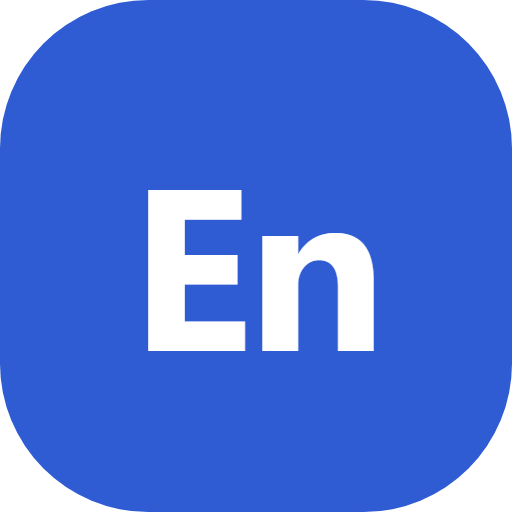
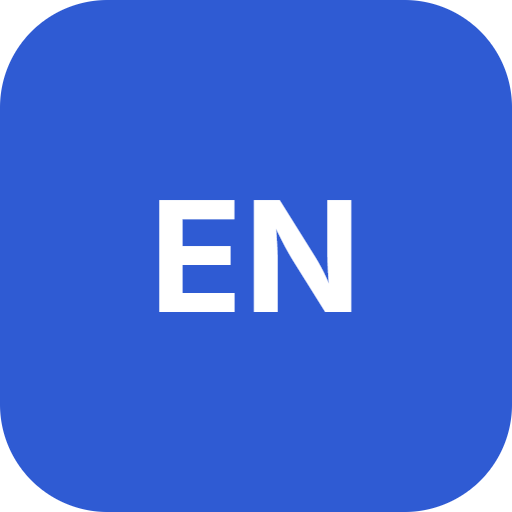
Polish the site's styling for dark mode, tablets and phones
- Fix low contrast in dark mode: white text on light accent and level
  colors (primary buttons, level badges, counters) was ~2.2-2.7:1. Add an
  --on-accent token: white in light mode, dark text in dark mode.
- Darken the tertiary text color in both themes and the A1/A2 level colors
  so small grey text and badges are readable.
- Stop hiding the last lesson tab ("Wymowa") on 961-1599px screens: the
  tab bar now spans the full width, and with a mouse the tabs wrap instead
  of overflowing.
- Keep the same content width and left edge across all lesson tabs, so the
  page no longer shifts when switching between them.
- Put the search field behind a search button on phones and tablets
  (up to 960px) and show only icons in the top bar links. This also fixes
  the top bar overflowing by up to 169px on 641-960px screens.
- Give table columns a minimum width on phones instead of squeezing them
  to one word per line; wide tables scroll horizontally.
- Add icons to the "Kolejność nauki" and search results headings to match
  the other section pages.
- Change the logo mark and app icons from "En" to "EN".
- Smaller fixes: the done check mark stays with the last word of a lesson
  title, full level names in the learning order cards, a thin sidebar
  scrollbar, and en dashes instead of em dashes.

diff --git a/css/style.css b/css/style.css
@@ -5,9 +5,10 @@
   --border: #e3ded3;
   --text: #1f2430;
   --text-2: #5a6070;
-  --text-3: #8a8f9c;
+  --text-3: #6e7381;
   --accent: #2f5bd3;
   --accent-soft: #e6ecfb;
+  --on-accent: #fff; /* tekst na tle accent / poziomu / ok / bad */
   --ok: #1f8a4c;
   --ok-soft: #e3f4ea;
   --bad: #c0392b;
@@ -16,8 +17,8 @@
   --warn-soft: #fdf0de;
   --tip: #1f7a6d;
   --tip-soft: #e0f3ef;
-  --a1: #2e9e5b;
-  --a2: #13889a;
+  --a1: #23854c;
+  --a2: #107e8f;
   --b1: #2f5bd3;
   --b2: #7b4bc9;
   --shadow: 0 1px 2px rgba(20, 24, 40, .05), 0 4px 16px rgba(20, 24, 40, .05);
@@ -30,8 +31,8 @@
 @media (prefers-color-scheme: dark) {
   :root:not([data-theme="light"]) {
     --bg: #14161c; --surface: #1c1f27; --surface-2: #232733; --border: #2f3442;
-    --text: #e8eaf0; --text-2: #a8aebd; --text-3: #737a8c;
-    --accent: #7c9bff; --accent-soft: #232c48;
+    --text: #e8eaf0; --text-2: #a8aebd; --text-3: #868d9f;
+    --accent: #7c9bff; --accent-soft: #232c48; --on-accent: #14161c;
     --ok: #4fc483; --ok-soft: #173326; --bad: #ff7b6b; --bad-soft: #3a1f1d;
     --warn: #f0a54a; --warn-soft: #3a2a16; --tip: #4fc7b5; --tip-soft: #15322e;
     --a1: #4fc483; --a2: #3cc0d2; --b1: #7c9bff; --b2: #b18cf0;
@@ -41,8 +42,8 @@
 }
 :root[data-theme="dark"] {
   --bg: #14161c; --surface: #1c1f27; --surface-2: #232733; --border: #2f3442;
-  --text: #e8eaf0; --text-2: #a8aebd; --text-3: #737a8c;
-  --accent: #7c9bff; --accent-soft: #232c48;
+  --text: #e8eaf0; --text-2: #a8aebd; --text-3: #868d9f;
+  --accent: #7c9bff; --accent-soft: #232c48; --on-accent: #14161c;
   --ok: #4fc483; --ok-soft: #173326; --bad: #ff7b6b; --bad-soft: #3a1f1d;
   --warn: #f0a54a; --warn-soft: #3a2a16; --tip: #4fc7b5; --tip-soft: #15322e;
   --a1: #4fc483; --a2: #3cc0d2; --b1: #7c9bff; --b2: #b18cf0;
@@ -74,7 +75,7 @@ button { font: inherit; color: inherit; cursor: pointer; }
 .logo:hover { text-decoration: none; }
 .logo-mark {
   display: grid; place-items: center; width: 34px; height: 34px; border-radius: 10px;
-  background: var(--accent); color: #fff; font-weight: 700; font-size: 15px;
+  background: var(--accent); color: var(--on-accent); font-weight: 700; font-size: 14px; letter-spacing: .02em;
 }
 .logo-text { font-weight: 500; }
 .search { flex: 1; min-width: 0; max-width: 560px; margin-left: auto; }
@@ -83,6 +84,8 @@ button { font: inherit; color: inherit; cursor: pointer; }
   width: 100%; height: 38px; padding: 0 14px; border-radius: 10px;
   border: 1px solid var(--border); background: var(--surface-2); color: var(--text); font: inherit; font-size: 14px;
 }
+.icon-btn.search-btn, .icon-btn.search-close { display: none; }
+.search-h1 { font-size: 30px; }
 .search input:focus { outline: 2px solid var(--accent); outline-offset: -1px; background: var(--surface); }
 .top-links { display: flex; align-items: center; gap: 6px; }
 .top-link { padding: 7px 12px; border-radius: 9px; color: var(--text); font-weight: 500; font-size: 14px; white-space: nowrap; }
@@ -105,7 +108,8 @@ button { font: inherit; color: inherit; cursor: pointer; }
 .f-ico .ic, .br-ico .ic, .hero h1 .ic, h1 .ic, h2 .ic { color: var(--accent); stroke-width: 1.75; }
 .order-num .ic { width: 16px; height: 16px; }
 .order-cp.is-done .order-num .ic, .test-link h3 > .ic { color: var(--ok); }
-.lt-mark, .lt-score .ic, .lt-badge .ic { color: var(--ok); }
+.lt-mark, .lt-score .ic, .lt-badge .ic, .done-tick .ic { color: var(--ok); }
+.done-tick { white-space: nowrap; }
 .lt-mark .ic { width: 18px; height: 18px; vertical-align: -3px; }
 .done-mark .ic, .order-check .ic { stroke-width: 2.5; }
 .menu-btn { display: none; }
@@ -116,6 +120,7 @@ button { font: inherit; color: inherit; cursor: pointer; }
   position: sticky; top: var(--topbar); height: calc(100vh - var(--topbar));
   width: var(--sidebar); flex-shrink: 0; overflow-y: auto;
   border-right: 1px solid var(--border); background: var(--surface); padding: 16px 12px 40px;
+  scrollbar-width: thin; scrollbar-color: var(--border) transparent;
 }
 .content { flex: 1; min-width: 0; padding: 32px 40px 80px; }
 .page { max-width: 880px; margin: 0 auto; }
@@ -132,7 +137,7 @@ button { font: inherit; color: inherit; cursor: pointer; }
   padding: 4px 12px; font-size: 13px; font-weight: 600; color: var(--text-2);
 }
 .chip.active { background: var(--text); color: var(--bg); border-color: var(--text); }
-.chip[data-level].active { background: var(--lvl); border-color: var(--lvl); color: #fff; }
+.chip[data-level].active { background: var(--lvl); border-color: var(--lvl); color: var(--on-accent); }
 .level-filter .chip {
   flex: 1 1 0; min-width: 0; border: 0; background: transparent; border-radius: 7px;
   padding: 5px 4px; white-space: nowrap;
@@ -140,7 +145,7 @@ button { font: inherit; color: inherit; cursor: pointer; }
 .level-filter .chip[data-all] { flex: 2.2 1 0; }
 .level-filter .chip:hover { color: var(--text); }
 .level-filter .chip.active { background: var(--surface); color: var(--text); box-shadow: 0 1px 2px rgba(0,0,0,.12); }
-.level-filter .chip[data-level].active { background: var(--lvl); color: #fff; }
+.level-filter .chip[data-level].active { background: var(--lvl); color: var(--on-accent); }
 .nav-group { margin-bottom: 14px; }
 .nav-group-title {
   display: flex; justify-content: space-between; gap: 8px;
@@ -165,7 +170,7 @@ button { font: inherit; color: inherit; cursor: pointer; }
 
 .badge {
   display: inline-block; font-size: 11px; font-weight: 700; padding: 1px 7px; border-radius: 6px;
-  color: #fff; background: var(--lvl); letter-spacing: .02em; flex-shrink: 0;
+  color: var(--on-accent); background: var(--lvl); letter-spacing: .02em; flex-shrink: 0;
 }
 [data-level="A1"] { --lvl: var(--a1); }
 [data-level="A2"] { --lvl: var(--a2); }
@@ -182,7 +187,7 @@ button { font: inherit; color: inherit; cursor: pointer; }
   border: 1px solid var(--border); background: var(--surface); color: var(--text); font-weight: 600; font-size: 15px;
 }
 .btn:hover { text-decoration: none; border-color: var(--text-3); }
-.btn.primary { background: var(--accent); border-color: var(--accent); color: #fff; }
+.btn.primary { background: var(--accent); border-color: var(--accent); color: var(--on-accent); }
 .btn.primary:hover { filter: brightness(1.08); }
 .btn.small { padding: 6px 12px; font-size: 13.5px; }
 .stats { display: grid; grid-template-columns: repeat(4, 1fr); gap: 12px; margin: 32px 0; }
@@ -249,8 +254,10 @@ button { font: inherit; color: inherit; cursor: pointer; }
 .toc-list a.active { color: var(--accent); background: var(--accent-soft); border-left-color: var(--accent); font-weight: 600; }
 
 @media (min-width: 1280px) {
-  .page.lesson:has(.toc-col) { max-width: 1120px; }
-  .page.lesson:has(.toc-col) > :not(.lesson-body) { max-width: calc(100% - 252px); }
+  /* Ta sama szerokość i lewa krawędź we wszystkich zakładkach lekcji (treść nie skacze przy przełączaniu). */
+  .page.lesson { max-width: 1120px; }
+  .page.lesson > :not(.lesson-head):not(.lesson-body:has(.toc-col)),
+  .page.lesson .lesson-head > :not(.tabs) { max-width: calc(100% - 252px); }
   .lesson-body:has(.toc-col) { display: grid; grid-template-columns: minmax(0, 1fr) 224px; column-gap: 28px; }
   .lesson-main { grid-column: 1; grid-row: 1; min-width: 0; }
   .toc-col {
@@ -406,6 +413,16 @@ mark { background: color-mix(in srgb, var(--warn) 30%, transparent); color: inhe
 /* ---------- Responsive ---------- */
 @media (max-width: 960px) {
   .menu-btn { display: grid; }
+  /* Pasek górny: pole wyszukiwania schowane pod lupą, linki same ikony – inaczej nie mieszczą się w jednym rzędzie. */
+  .top-link .tl-txt { display: none; }
+  .top-link { padding: 7px 8px; }
+  .search { display: none; }
+  .icon-btn.search-btn { display: grid; margin-left: auto; }
+  body.search-open .search {
+    display: flex; align-items: center; gap: 6px; position: absolute; inset: 0; z-index: 2;
+    max-width: none; margin: 0; padding: 0 10px; background: var(--surface);
+  }
+  body.search-open .icon-btn.search-close { display: grid; flex: none; }
   .sidebar {
     position: fixed; left: 0; top: var(--topbar); z-index: 25; transform: translateX(-100%);
     transition: transform .2s; box-shadow: var(--shadow);
@@ -419,9 +436,11 @@ mark { background: color-mix(in srgb, var(--warn) 30%, transparent); color: inhe
 @media (max-width: 640px) {
   .topbar { gap: 8px; padding: 0 10px; }
   .logo-text { display: none; }
-  .top-link { padding: 7px 8px; }
   .search input { padding: 0 10px; }
   .toolbar .spacer { display: none; }
+  /* tabela szersza niż ekran przewija się w poziomie, zamiast zgniatać kolumny do jednego słowa w wierszu */
+  .table-wrap table { font-size: 14px; }
+  .table-wrap th, .table-wrap td { padding: 8px 10px; min-width: 140px; }
   .formula-row { grid-template-columns: 1fr; }
   .formula-row .f-label { padding: 8px 14px; }
   .options, .gap-actions, .feedback { margin-left: 0; }
@@ -448,6 +467,8 @@ mark { background: color-mix(in srgb, var(--warn) 30%, transparent); color: inhe
 /* zakładki lekcji */
 .tabs { display: flex; gap: 4px; border-bottom: 1px solid var(--border); margin: 8px 0 0; overflow-x: auto; scrollbar-width: none; }
 .tabs::-webkit-scrollbar { display: none; }
+/* Bez ekranu dotykowego nie da się przewinąć ukrytego paska – zakładki przechodzą do drugiego wiersza. */
+@media (hover: hover) and (pointer: fine) and (min-width: 641px) { .tabs { flex-wrap: wrap; overflow-x: visible; } }
 .tab { padding: 10px 14px; color: var(--text-2); font-weight: 600; font-size: 15px; border-bottom: 3px solid transparent; margin-bottom: -1px; white-space: nowrap; }
 .tab:hover { color: var(--text); text-decoration: none; }
 .tab.active { color: var(--accent); border-bottom-color: var(--accent); }
@@ -620,7 +641,7 @@ a.level-test:hover { text-decoration: none; }
 .v-ex { display: flex; align-items: center; gap: 4px; font-size: 14px; color: var(--text-2); margin-left: -6px; }
 .v-ex .speak { width: 24px; height: 24px; font-size: 12px; }
 .v-known { width: 30px; height: 30px; border-radius: 50%; border: 1px solid var(--border); background: transparent; color: var(--text-3); font-size: 14px; }
-.vrow.known .v-known { background: var(--ok); border-color: var(--ok); color: #fff; }
+.vrow.known .v-known { background: var(--ok); border-color: var(--ok); color: var(--on-accent); }
 .vrow.known .v-en { color: var(--ok); }
 .fc-top { display: flex; gap: 16px; flex-wrap: wrap; align-items: center; color: var(--text-3); font-size: 14px; margin-bottom: 10px; }
 .flashcard { min-height: 200px; display: grid; place-items: center; text-align: center; padding: 24px; cursor: pointer; user-select: none; }
@@ -654,7 +675,7 @@ a.level-test:hover { text-decoration: none; }
 .order-level { display: block; color: var(--text); padding: 10px 12px; border-radius: 10px; background: var(--surface-2); }
 .order-level:hover { text-decoration: none; outline: 1px solid var(--lvl); }
 .order-level-head { display: flex; align-items: center; gap: 8px; font-size: 13.5px; }
-.order-level-head b { font-weight: 600; flex: 1; min-width: 0; overflow: hidden; text-overflow: ellipsis; white-space: nowrap; }
+.order-level-head b { font-weight: 600; flex: 1; min-width: 0; line-height: 1.3; }
 .order-level .progress { margin: 8px 0 2px; }
 .order-group { margin: 0 0 28px; scroll-margin-top: calc(var(--topbar) + 16px); }
 .order-group-title { display: flex; align-items: center; gap: 10px; font-size: 22px; margin: 0 0 10px; padding-bottom: 6px; border-bottom: 3px solid var(--lvl); }
@@ -675,10 +696,10 @@ a.level-test:hover { text-decoration: none; }
 .order-item.is-done .order-num { background: var(--ok-soft); color: var(--ok); }
 .order-item.is-done .order-title { color: var(--text-2); }
 .order-item.is-next a { border: 2px solid var(--accent); background: var(--accent-soft); box-shadow: var(--shadow); }
-.order-item.is-next .order-num { background: var(--accent); color: #fff; }
+.order-item.is-next .order-num { background: var(--accent); color: var(--on-accent); }
 .order-next-tag {
   flex-shrink: 0; font-size: 11.5px; font-weight: 700; text-transform: uppercase; letter-spacing: .05em;
-  color: #fff; background: var(--accent); padding: 2px 8px; border-radius: 99px;
+  color: var(--on-accent); background: var(--accent); padding: 2px 8px; border-radius: 99px;
 }
 @media (max-width: 960px) {
   .order-levels { grid-template-columns: repeat(2, minmax(0, 1fr)); }
@@ -845,7 +866,7 @@ a.level-test:hover { text-decoration: none; }
 @media print { .backup, .backup-reminder, .order-backup-link { display: none; } }
 
 /* ---------- Moje błędy (#/bledy) ---------- */
-.m-count, .wd-count, .menu-count { display: inline-block; min-width: 20px; padding: 0 6px; border-radius: 99px; background: var(--bad); color: #fff; font-size: 12px; font-weight: 700; line-height: 20px; text-align: center; }
+.m-count, .wd-count, .menu-count { display: inline-block; min-width: 20px; padding: 0 6px; border-radius: 99px; background: var(--bad); color: var(--on-accent); font-size: 12px; font-weight: 700; line-height: 20px; text-align: center; }
 .wd-count { background: var(--accent); }
 .m-count[hidden], .wd-count[hidden], .top-link[hidden] { display: none; }
 .top-count { margin-left: 4px; vertical-align: 1px; }
@@ -948,7 +969,7 @@ a.level-test:hover { text-decoration: none; }
 .streak-card .act-hint { margin: 0; flex: 1; }
 .dw { display: flex; gap: 6px; }
 .dw-day { flex: 1 1 0; min-width: 0; display: flex; flex-direction: column; align-items: center; gap: 4px; }
-.dw-dot { display: grid; place-items: center; width: 100%; max-width: 32px; aspect-ratio: 1; border-radius: 50%; background: var(--surface-2); color: #fff; }
+.dw-dot { display: grid; place-items: center; width: 100%; max-width: 32px; aspect-ratio: 1; border-radius: 50%; background: var(--surface-2); color: var(--on-accent); }
 .dw-dot .ic { width: 60%; height: 60%; stroke-width: 3; }
 .dw-day.on .dw-dot { background: var(--ok); }
 .dw-day.today .dw-dot { outline: 2px solid var(--text-3); outline-offset: 2px; }

diff --git a/js/app.js b/js/app.js
@@ -9,6 +9,7 @@
     x: '<path d="M18 6 6 18M6 6l12 12"/>',
     menu: '<path d="M3 6h18M3 12h18M3 18h18"/>',
     contrast: '<circle cx="12" cy="12" r="9"/><path d="M12 3a9 9 0 0 1 0 18z" fill="currentColor"/>',
+    search: '<circle cx="11" cy="11" r="8"/><path d="m21 21-4.3-4.3"/>',
     compass: '<circle cx="12" cy="12" r="10"/><path d="m16.24 7.76-2.12 6.36-6.36 2.12 2.12-6.36z"/>',
     book: '<path d="M4 19.5A2.5 2.5 0 0 1 6.5 17H20"/><path d="M6.5 2H20v20H6.5A2.5 2.5 0 0 1 4 19.5v-15A2.5 2.5 0 0 1 6.5 2z"/>',
     cards: '<rect x="3" y="7" width="13" height="14" rx="2"/><path d="M8 3h11a2 2 0 0 1 2 2v12"/>',
@@ -39,6 +40,8 @@
     headphones: '<path d="M3 18v-6a9 9 0 0 1 18 0v6"/><path d="M21 19a2 2 0 0 1-2 2h-1a2 2 0 0 1-2-2v-3a2 2 0 0 1 2-2h3zM3 19a2 2 0 0 0 2 2h1a2 2 0 0 0 2-2v-3a2 2 0 0 0-2-2H3z"/>',
   };
   const icon = (name, cls) => `<svg class="ic${cls ? " " + cls : ""}" viewBox="0 0 24 24" fill="none" stroke="currentColor" stroke-width="2" stroke-linecap="round" stroke-linejoin="round" aria-hidden="true" focusable="false">${ICONS[name]}</svg>`;
+  // Ostatnie słowo tytułu + ✓ w jednym kawałku – znaczek nie przeskakuje sam do nowej linii.
+  const doneTick = (title, done) => (done ? title.replace(/\S+$/, (w) => `<span class="done-tick">${w}&nbsp;${icon("check")}</span>`) : title);
   const LEVEL_INFO = {
     A1: { name: "Początkujący", desc: "Podstawy: to be, proste czasy, liczba mnoga, zaimki, przyimki." },
     A2: { name: "Podstawowy", desc: "Codzienna komunikacja: przeszłość, przyszłość, stopniowanie, modalne." },
@@ -1027,7 +1030,7 @@
     }).join("");
     return `<div class="page order-page">
       <div class="crumbs"><a href="#/">Strona główna</a> · <span>Kolejność nauki</span></div>
-      <h1>Kolejność nauki</h1>
+      <h1>${icon("compass")} Kolejność nauki</h1>
       <p class="muted-p">Lekcje ułożone tak, jak warto się ich uczyć. Każda korzysta tylko z gramatyki i słówek z lekcji wcześniejszych. Lekcję oznaczysz jako przerobioną przyciskiem w lekcji albo zdając jej test (min. 80%).${CHECKPOINTS.length ? ` Co kilka lekcji czeka ${icon("flag")} <b>sprawdzian powtórkowy</b>: zadania z ostatnich lekcji i trochę z wcześniejszych, głównie pisanie całych zdań.` : ""} Na końcu każdego poziomu jest ${icon("test")} <b>test poziomu</b> – za zaliczenie (80%) dostajesz odznakę ${icon("medal")}.</p>
       <div class="card order-summary">
         <div class="order-total">
@@ -1693,7 +1696,7 @@
     const ctls = [];
     const finishAll = () => {
       const p = Math.round((correct / total) * 100);
-      const msg = p === 100 ? "Perfekcyjnie! 🎉" : p >= 80 ? "Bardzo dobrze! 👏" : p >= 50 ? "Nieźle — przejrzyj błędy i spróbuj jeszcze raz." : "Warto wrócić do teorii i powtórzyć ćwiczenia.";
+      const msg = p === 100 ? "Perfekcyjnie! 🎉" : p >= 80 ? "Bardzo dobrze! 👏" : p >= 50 ? "Nieźle – przejrzyj błędy i spróbuj jeszcze raz." : "Warto wrócić do teorii i powtórzyć ćwiczenia.";
       resultEl.innerHTML = `<div class="card result-banner"><b>${correct} / ${total} (${p}%)</b><div>${msg}</div>${errSummaryHtml(ctls)}</div>`;
       if (opts.key) { saveScore(opts.key, correct, total); }
       if (opts.onDone) opts.onDone(correct, total, ctls);
@@ -2043,7 +2046,7 @@
     const v = l.vocab && l.vocab.items || [];
     const prep = req.length || v.length ? `<div class="card prep">
         <h3>${icon("briefcase")} Zanim zaczniesz</h3>
-        ${req.length ? `<p><b>Powinieneś znać:</b> ${req.map((r) => `<a href="#/lesson/${r.id}">${esc(r.title)}</a>${state.done[r.id] ? " " + icon("check") : ""}`).join(", ")}</p>` : ""}
+        ${req.length ? `<p><b>Powinieneś znać:</b> ${req.map((r) => `<a href="#/lesson/${r.id}">${doneTick(esc(r.title), state.done[r.id])}</a>`).join(", ")}</p>` : ""}
         ${v.length ? `<p><b>Słówka potrzebne w tej lekcji</b> (${v.length}): ${v.slice(0, 14).map((w) => `<span class="w-chip" title="${esc(stripTags(w.pl))}">${w.en}</span>`).join(" ")}${v.length > 14 ? " …" : ""}</p>
         <a class="btn small" href="#/lesson/${l.id}/vocab">${icon("type")} Przećwicz słówka →</a>` : ""}
       </div>` : "";
@@ -2335,7 +2338,7 @@
   const reachLabel = () => reachIdx() ? `lekcje 1–${reachIdx() + 1}` : "lekcja 1";
   function renderPractice() {
     return `<div class="page">
-      <div class="hero"><h1>${icon("target")} Trening mieszany</h1><p>Losowe zadania z wielu lekcji (sprawdzane od razu) — dobry sposób, żeby sprawdzić, czy umiesz rozpoznać właściwą konstrukcję, gdy nie wiesz, z jakiej lekcji jest zadanie.</p></div>
+      <div class="hero"><h1>${icon("target")} Trening mieszany</h1><p>Losowe zadania z wielu lekcji (sprawdzane od razu) – dobry sposób, żeby sprawdzić, czy umiesz rozpoznać właściwą konstrukcję, gdy nie wiesz, z jakiej lekcji jest zadanie.</p></div>
       ${setupHtml(practiceCfg, [10, 15, 25, 40], `<div><h3>Rodzaj zadań</h3><div class="chips" data-f="src">${Object.entries(SRC).map(([k, v]) => `<button class="chip ${practiceCfg.src === k ? "active" : ""}" data-v="${k}">${v}</button>`).join("")}</div></div>`)}
       <div id="pBox"></div>
     </div>`;
@@ -2446,7 +2449,7 @@
       <p class="summary">Powtórka po lekcjach ${cpRange(c)}${c.prior.length ? ` z dodatkiem zadań z lekcji 1–${lessonNo(c.lessons[0]) - 1}` : ""}. Zadania są wymieszane i nie widać, z której lekcji pochodzą – trzeba samemu rozpoznać, jakiej konstrukcji użyć.</p>
       <div class="card test-intro">
         <p><b>Co sprawdzamy:</b> ${esc(c.focus || "")}</p>
-        <p class="cp-lessons"><b>Lekcje:</b> ${c.lessons.map((l) => `<a href="#/lesson/${l.id}">${lessonNo(l)}. ${esc(l.title)}</a>${state.done[l.id] ? " " + icon("check") : ""}`).join(" · ")}</p>
+        <p class="cp-lessons"><b>Lekcje:</b> ${c.lessons.map((l) => `<a href="#/lesson/${l.id}">${lessonNo(l)}. ${doneTick(esc(l.title), state.done[l.id])}</a>`).join(" · ")}</p>
         <p><b>${cur + rev} zadań</b>: ${cur} z tych lekcji${rev ? ` i ${rev} z wcześniejszych` : ""}. Prawie wszystkie to <b>pisanie całych zdań</b> (tłumaczenie, przekształcanie, poprawianie błędów), kilka to układanie zdań z wyrazów. Wynik i poprawki zobaczysz po kliknięciu „Zakończ i sprawdź”. Zaliczenie od <b>80%</b>. Każde podejście losuje nowe zadania.</p>
         ${todo.length ? `<p class="callout warning">Możesz pisać od razu, ale najlepiej najpierw przerobić: ${todo.map((l) => `<a href="#/lesson/${l.id}">${esc(l.title)}</a>`).join(", ")}</p>` : ""}
         ${s ? `<p>Twój najlepszy wynik: ${scorePill(s)}${cpPassed(c) ? ` – <b>zaliczone ${icon("check")}</b>` : ""}</p>` : ""}
@@ -2755,7 +2758,7 @@
       if (words.length >= 30) break;
     }
     const hl = (s) => { let out = esc(s); terms.forEach((t) => { out = out.replace(new RegExp(t.replace(/[.*+?^${}()|[\]\\]/g, "\\$&"), "gi"), (m) => `<mark>${m}</mark>`); }); return out; };
-    return `<div class="page"><h1 style="font-size:30px">Wyniki dla „${esc(q)}”</h1>
+    return `<div class="page"><h1 class="search-h1">${icon("search")} Wyniki dla „${esc(q)}”</h1>
       ${hits.length ? `<div class="results-list">${hits.map(({ l }) => `<a class="card result-item" href="#/lesson/${l.id}">
         <h3>${badge(l.level)} ${hl(l.title)}</h3><p><b>${hl(l.titlePl)}</b> · ${esc(l.category)}</p><p>${hl(stripTags(l.summary))}</p></a>`).join("")}</div>`
         : words.length ? "" : `<div class="empty">Nic nie znaleziono. Spróbuj innego słowa, np. „past”, „modal”, „if”, „przedimki”.</div>`}
@@ -2870,7 +2873,15 @@
       else if (!q && location.hash.startsWith("#/search/")) location.hash = "#/";
     }, 200);
   });
-  $("#search").addEventListener("keydown", (e) => { if (e.key === "Escape") { e.target.value = ""; e.target.blur(); } });
+  // Telefon i tablet (do 960px): pole wyszukiwania schowane pod lupą, po otwarciu zakrywa pasek górny.
+  const closeSearch = () => { const el = $("#search"); el.value = ""; el.blur(); document.body.classList.remove("search-open"); if (location.hash.startsWith("#/search/")) location.hash = "#/"; };
+  $("#searchBtn").addEventListener("click", () => { document.body.classList.add("search-open"); $("#search").focus(); });
+  $("#searchClose").addEventListener("click", closeSearch);
+  const SEARCH_PH = $("#search").placeholder, PHONE = matchMedia("(max-width: 960px)");
+  const syncSearchPh = () => { $("#search").placeholder = PHONE.matches ? "Szukaj tematu lub słówka…" : SEARCH_PH; };
+  syncSearchPh(); PHONE.addEventListener("change", syncSearchPh);
+  $("#search").addEventListener("blur", (e) => { if (!e.target.value.trim()) document.body.classList.remove("search-open"); });
+  $("#search").addEventListener("keydown", (e) => { if (e.key === "Escape") closeSearch(); });
   document.addEventListener("keydown", (e) => {
     if (e.key === "/" && !/input|textarea/i.test(document.activeElement.tagName)) { e.preventDefault(); $("#search").focus(); }
   });
@@ -2927,7 +2938,7 @@
   initOffline();
   // Słowniki do opisu błędów (ok. 0,3 s) budujemy, gdy przeglądarka nic nie robi – nie przy pierwszym „Sprawdź”.
   if ("requestIdleCallback" in window) requestIdleCallback(() => errDicts(), { timeout: 8000 }); else setTimeout(errDicts, 3000);
-  window.addEventListener("hashchange", () => { if (!location.hash.startsWith("#/search/")) $("#search").value = ""; route(); });
+  window.addEventListener("hashchange", () => { if (!location.hash.startsWith("#/search/")) { $("#search").value = ""; document.body.classList.remove("search-open"); } route(); });
 
   // Udostępnione do testów automatycznych (tools/).
   window.__ENG = { matches, expandAnswer, vocabMatch, variants };

diff --git a/index.html b/index.html
@@ -12,7 +12,7 @@
   <link rel="preconnect" href="https://fonts.googleapis.com">
   <link rel="preconnect" href="https://fonts.gstatic.com" crossorigin>
   <link href="https://fonts.googleapis.com/css2?family=Inter:wght@400;500;600;700&family=Fraunces:opsz,wght@9..144,600;9..144,700&display=swap" rel="stylesheet">
-  <link rel="stylesheet" href="css/style.css?v=dac719d9c8">
+  <link rel="stylesheet" href="css/style.css?v=ba36bc92b6">
   <script>
     try { const t = localStorage.getItem("eng-theme"); if (t) document.documentElement.dataset.theme = t; } catch (e) {}
   </script>
@@ -20,10 +20,12 @@
 <body>
   <header class="topbar">
     <button class="icon-btn menu-btn" id="menuBtn" aria-label="Menu"><svg class="ic" viewBox="0 0 24 24" fill="none" stroke="currentColor" stroke-width="2" stroke-linecap="round" stroke-linejoin="round" aria-hidden="true" focusable="false"><path d="M3 6h18M3 12h18M3 18h18"/></svg><span class="menu-count" hidden></span></button>
-    <a href="#/" class="logo"><span class="logo-mark">En</span><span class="logo-text">Gramatyka <b>A1–B2</b></span></a>
+    <a href="#/" class="logo"><span class="logo-mark">EN</span><span class="logo-text">Gramatyka <b>A1–B2</b></span></a>
     <div class="search">
       <input id="search" type="search" placeholder="Szukaj tematu lub słówka, np. „present perfect”, „kitchen”…  ( / )" autocomplete="off">
+      <button class="icon-btn search-close" id="searchClose" aria-label="Zamknij wyszukiwanie"><svg class="ic" viewBox="0 0 24 24" fill="none" stroke="currentColor" stroke-width="2" stroke-linecap="round" stroke-linejoin="round" aria-hidden="true" focusable="false"><path d="M18 6 6 18M6 6l12 12"/></svg></button>
     </div>
+    <button class="icon-btn search-btn" id="searchBtn" aria-label="Szukaj" title="Szukaj"><svg class="ic" viewBox="0 0 24 24" fill="none" stroke="currentColor" stroke-width="2" stroke-linecap="round" stroke-linejoin="round" aria-hidden="true" focusable="false"><circle cx="11" cy="11" r="8"/><path d="m21 21-4.3-4.3"/></svg></button>
     <nav class="top-links">
       <a href="#/kolejnosc" class="top-link" title="Kolejność nauki"><svg class="ic" viewBox="0 0 24 24" fill="none" stroke="currentColor" stroke-width="2" stroke-linecap="round" stroke-linejoin="round" aria-hidden="true" focusable="false"><circle cx="12" cy="12" r="10"/><path d="m16.24 7.76-2.12 6.36-6.36 2.12 2.12-6.36z"/></svg><span class="tl-txt"> Kolejność</span></a>
       <a href="#/vocab" class="top-link" title="Słownictwo"><svg class="ic" viewBox="0 0 24 24" fill="none" stroke="currentColor" stroke-width="2" stroke-linecap="round" stroke-linejoin="round" aria-hidden="true" focusable="false"><path d="M4 19.5A2.5 2.5 0 0 1 6.5 17H20"/><path d="M6.5 2H20v20H6.5A2.5 2.5 0 0 1 4 19.5v-15A2.5 2.5 0 0 1 6.5 2z"/></svg><span class="tl-txt"> Słownictwo</span><span class="wd-count top-count" title="Słówka na dziś" hidden></span></a>
@@ -50,6 +52,6 @@
   <script src="data/bundle.js?v=374964a8d6"></script>
   <!-- DATA:END -->
   <!-- Aplikacja -->
-  <script src="js/app.js?v=2d172edb54"></script>
+  <script src="js/app.js?v=ac9d2fac02"></script>
 </body>
 </html>

diff --git a/sw.js b/sw.js
@@ -16,11 +16,11 @@
 //  - wszystko inne – zwykle z sieci.
 
 // BUILD:START
-const VERSION = "e8990c557d";
+const VERSION = "1982861536";
 const SHELL = [
   "./",
-  "css/style.css?v=dac719d9c8",
-  "js/app.js?v=2d172edb54",
+  "css/style.css?v=ba36bc92b6",
+  "js/app.js?v=ac9d2fac02",
   "data/bundle.js?v=374964a8d6",
   "manifest.webmanifest",
   "icons/apple-touch-icon.png",
